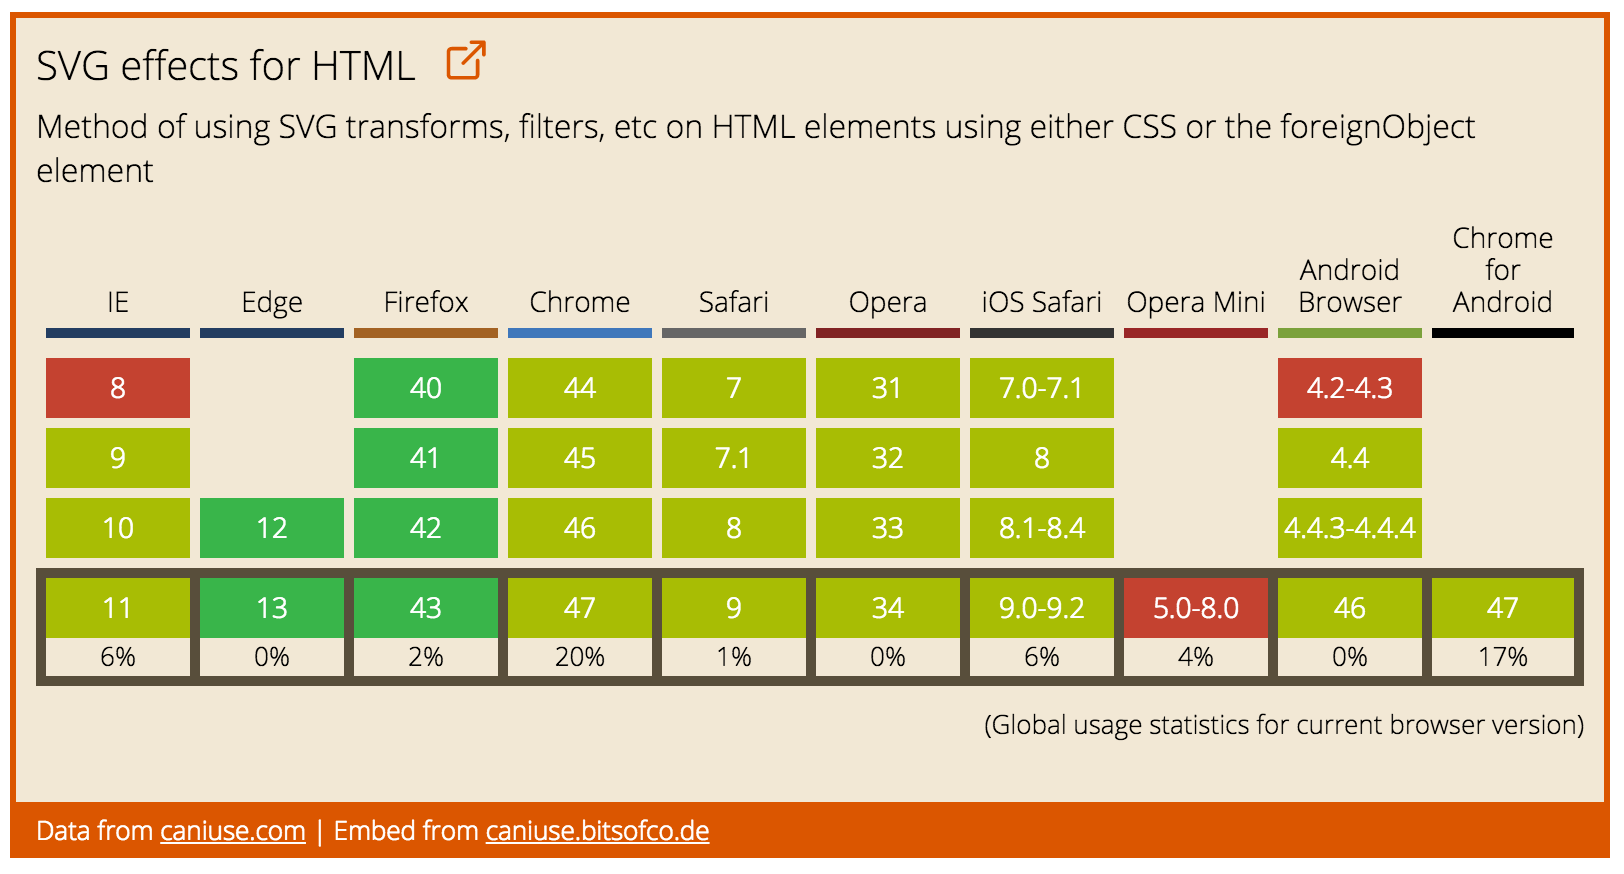
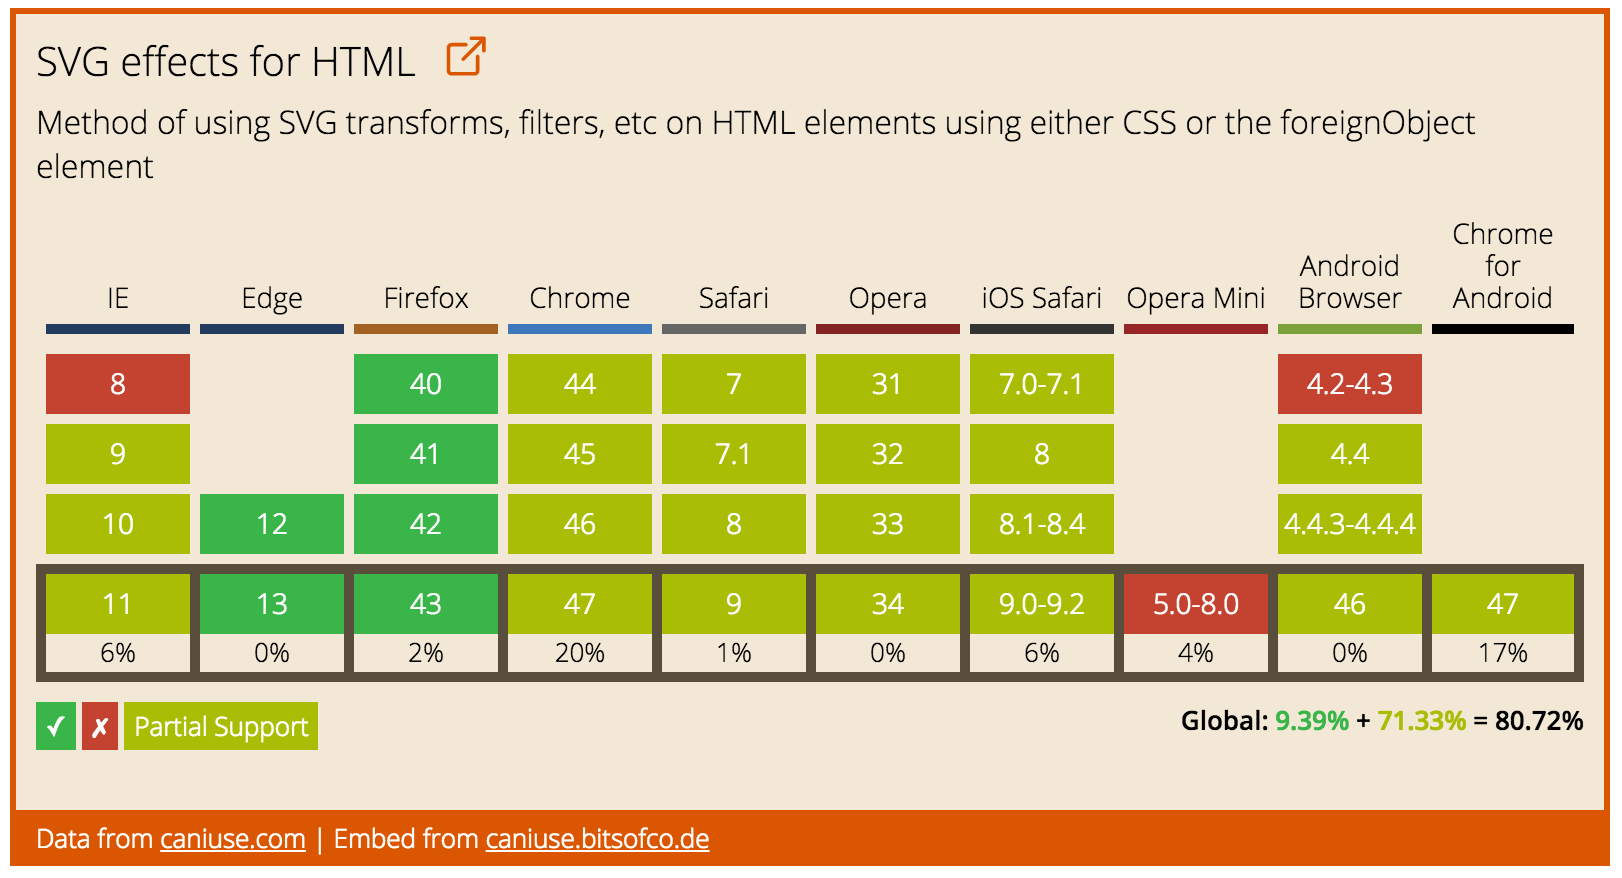
updates to embed and main site

Changed region(s): [[0.0, 0.0, 1.0, 0.9886], [0.0, 0.1236, 0.9248, 0.2162]]

diff --git a/embed/index.html b/embed/index.html
@@ -2,6 +2,8 @@
 <body>
 	<link href="https://fonts.googleapis.com/css?family=Open+Sans:400,300,600,700' rel='stylesheet" rel="stylesheet" inline>
 	<link rel="stylesheet" href="style.css" inline>
+	
+
 
 
 	<article class="feature">
@@ -10,14 +12,12 @@
 			<h1 class="feature-title">
 				<a href="" class="feature-link" target="_blank">
 				<span></span>
-				<svg width="20px" viewBox="0 0 68 69" >
+				<svg width="15px" viewBox="0 0 68 69">
 				<title>External Link</title>
-				    <g  stroke="none" stroke-width="1" fill="none" fill-rule="evenodd">
-				        <g sketch:type="MSLayerGroup" fill="#DB5600">
-				            <path d="M64.855,0.781 L43.34,0.781 C41.613,0.781 40.219,2.18 40.219,3.902 C40.219,5.629 41.617,7.023 43.34,7.023 L57.66,7.023 L27.016,37.676 C25.797,38.895 25.797,40.871 27.016,42.094 C27.625,42.703 28.426,43.008 29.223,43.008 C30.02,43.008 30.82,42.703 31.43,42.094 L61.734,11.789 L61.734,25.418 C61.734,27.145 63.133,28.539 64.855,28.539 C66.582,28.539 67.977,27.141 67.977,25.418 L67.977,3.902 C67.977,2.18 66.582,0.781 64.855,0.781 L64.855,0.781 Z" id="Fill-1" sketch:type="MSShapeGroup"></path>
-				            <path d="M54.055,32.23 C52.328,32.23 50.934,33.629 50.934,35.352 L50.934,59.992 C50.934,61.121 49.98,62.074 48.852,62.074 L9.035,62.074 C7.906,62.074 6.953,61.121 6.953,59.992 L6.953,20.176 C6.953,19.047 7.906,18.094 9.035,18.094 L33.762,18.094 C35.488,18.094 36.883,16.695 36.883,14.973 C36.883,13.246 35.484,11.852 33.762,11.852 L9.031,11.852 C4.438,11.852 0.703,15.586 0.703,20.18 L0.703,59.996 C0.703,64.59 4.438,68.324 9.031,68.324 L48.848,68.324 C53.441,68.324 57.176,64.59 57.176,59.996 L57.176,35.355 C57.176,33.629 55.777,32.23 54.055,32.23 L54.055,32.23 Z" id="Fill-2" sketch:type="MSShapeGroup"></path>
-				        </g>
-				    </g>
+		        <g fill="#DB5600">
+		            <path d="M64.855,0.781 L43.34,0.781 C41.613,0.781 40.219,2.18 40.219,3.902 C40.219,5.629 41.617,7.023 43.34,7.023 L57.66,7.023 L27.016,37.676 C25.797,38.895 25.797,40.871 27.016,42.094 C27.625,42.703 28.426,43.008 29.223,43.008 C30.02,43.008 30.82,42.703 31.43,42.094 L61.734,11.789 L61.734,25.418 C61.734,27.145 63.133,28.539 64.855,28.539 C66.582,28.539 67.977,27.141 67.977,25.418 L67.977,3.902 C67.977,2.18 66.582,0.781 64.855,0.781 L64.855,0.781 Z"></path>
+		            <path d="M54.055,32.23 C52.328,32.23 50.934,33.629 50.934,35.352 L50.934,59.992 C50.934,61.121 49.98,62.074 48.852,62.074 L9.035,62.074 C7.906,62.074 6.953,61.121 6.953,59.992 L6.953,20.176 C6.953,19.047 7.906,18.094 9.035,18.094 L33.762,18.094 C35.488,18.094 36.883,16.695 36.883,14.973 C36.883,13.246 35.484,11.852 33.762,11.852 L9.031,11.852 C4.438,11.852 0.703,15.586 0.703,20.18 L0.703,59.996 C0.703,64.59 4.438,68.324 9.031,68.324 L48.848,68.324 C53.441,68.324 57.176,64.59 57.176,59.996 L57.176,35.355 C57.176,33.629 55.777,32.23 54.055,32.23 L54.055,32.23 Z"></path>
+		        </g>
 				</svg>
 			</a>
 			</h1>
@@ -122,7 +122,7 @@
 				
 			</table>
 
-			<small class="note">(Global usage statistics for current browser version)</small>
+			<small class="note"></small>
 
 			<div class="legend">
 				<div class="y" aria-label="Supported">&#x2713;</div>
@@ -134,7 +134,7 @@
 		</main>
 
 		<footer class="feature-footer">
-			Data from <a href="http://caniuse.com">caniuse.com</a> | Embed from <a href="http://caniuse.bitsofco.de">caniuse.bitsofco.de</a>
+			Data from <a href="http://caniuse.com" target="_blank">caniuse.com</a> | Embed from <a href="http://caniuse.bitsofco.de" target="_blank">caniuse.bitsofco.de</a>
 		</footer>
 		
 	</article>

diff --git a/export.js b/export.js
@@ -1,15 +1,41 @@
 $(document).ready(function() {
 
+	// SORTING FUNCTION FROM http://stackoverflow.com/a/979325
+	var sort_by = function(field, primer){
+	   var key = primer ? 
+	       function(x) {return primer(x[field])} : 
+	       function(x) {return x[field]};
+	   return function (a, b) {
+	       return a = key(a), b = key(b), 1 * ((a > b) - (b > a));
+	     } 
+	}
 
-	var caniuseDataUrl = 'https://raw.githubusercontent.com/Fyrd/caniuse/master/data.json';
+	// GET FEATURE DATA JSON
+	$.getJSON('https://raw.githubusercontent.com/Fyrd/caniuse/master/data.json', function(res) {
 
+		//console.log(res);
 
-	$.getJSON(caniuseDataUrl, function(res) {
+		var featuresArray = [];
+
 		for (var feature in res.data) {
-			var featureTitle = res.data[feature].title;
-			var option = '<option value="'+feature+'">'+featureTitle+'</option>';
-			$('select[name="featureID"]').append(option);
+			var feature = {
+				id: feature,
+				title: res.data[feature].title
+			}
+			featuresArray.push(feature);
 		}
+
+		featuresArray.sort(sort_by('title', function(a){return a}));
+
+		for (var i = 0; i < featuresArray.length; i++) {
+
+			var feature = featuresArray[i];
+
+			var option = '<option value="'+feature.id+'">'+feature.title+'</option>';
+			$('select[name="featureID"]').append(option);
+
+		}
+
 	});
 
 
@@ -20,17 +46,17 @@ $(document).ready(function() {
 
 		var exportCode = '<p>Paste this snippet where you want the embed to be displayed:</p><pre>&lt;p class="ciu_embed" data-feature="'+featureID+'">\n&nbsp;&nbsp;&lt;a href="http://caniuse.com/#feat='+featureID+'">Can I Use '+featureID+'&lt;/a&gt;\n&lt;/p&gt;</pre>';
 
-		var preview = '<p>Preview of embed:</p><p class="ciu_embed" data-feature="'+featureID+'">\n&nbsp;&nbsp;<a href="http://caniuse.com/#feat='+featureID+'">Can I Use '+featureID+'</a>\n</p>';
+		var preview = '<p>Preview of embed:</p><p class="ciu_embed" data-feature="'+featureID+'">\n&nbsp;&nbsp;<a href="http://caniuse.com/#feat='+featureID+'">Can I Use '+featureID+'?</a>\n</p>';
 
 
 		$('.step_3').show();
 		$('.export').html(exportCode + preview);
 
-		// LOAD CLIENT SCRIPT AGAIN FOR PREVIEW
-		var head= document.getElementsByTagName('head')[0];
-		var script= document.createElement('script');
-		script.type= 'text/javascript';
-		script.src= 'caniuse-embed.js';
+		// LOAD CANIUSE-EMBED.JS SCRIPT AGAIN FOR PREVIEW
+		var head = document.getElementsByTagName('head')[0];
+		var script = document.createElement('script');
+		script.type = 'text/javascript';
+		script.src = 'caniuse-embed.js';
 		head.appendChild(script);
 
 

diff --git a/caniuse-embed.js b/caniuse-embed.js
@@ -1,26 +1,37 @@
 var caniuse_embeds = document.getElementsByClassName("ciu_embed");
 
-
 function calcIframeHeight(embed) {
-
-	var iframeHeight = '390px';
 	var parentWidth = embed.parentNode.offsetWidth; 
-	
-	if (parentWidth < 1000) {
-		iframeHeight = '400px';
-	}
-	if (parentWidth < 900) {
-		iframeHeight = '440px';
-	}
-	if (parentWidth < 750) {
-		iframeHeight = '550px';
-	}
+	var iframeHeight = '390px';
+
 	if (parentWidth < 600) {
 		iframeHeight = '630px';
 	}
+	else if (parentWidth < 750) {
+		iframeHeight = '550px';
+	}
+	else if (parentWidth < 900) {
+		iframeHeight = '440px';
+	}
+	else if (parentWidth < 1000) {
+		iframeHeight = '400px';
+	}
+
 	return iframeHeight;
 }
 
+for (var i = 0; i < caniuse_embeds.length; i++) {
+	var embed = caniuse_embeds[i];
+	var feature = embed.dataset.feature;
+	var iframeHeight = calcIframeHeight(embed);
+
+	if (!feature) {
+		embed.innerHTML = "A feature was not included. Add a caniuse feature ID to the 'data-feature' attribute of the element with class 'ciu_embed'.";
+	} else {
+		var iframe = '<iframe src="https://caniuse.bitsofco.de/embed/index.html?feat='+feature+'" frameborder="0" width="100%" height="'+iframeHeight+'"></iframe>';
+		embed.innerHTML = iframe;
+	}
+}
 
 window.onresize = function(event) {
 	for (var i = 0; i < caniuse_embeds.length; i++) {
@@ -29,18 +40,3 @@ window.onresize = function(event) {
 		embed.childNodes[0].height = iframeHeight;
 	}
 };
-
-
-for (var i = 0; i < caniuse_embeds.length; i++) {
-	var embed = caniuse_embeds[i];
-	var feature = embed.dataset.feature;
-	iframeHeight = calcIframeHeight(embed);
-
-	if (!feature) {
-		embed.innerHTML = "A feature was not included. Add a feature ID to the 'data-feature' attribute of the element with class 'ciu_embed'.";
-	} else {
-		var iframe = '<iframe src="src/iframe.html?feat='+feature+'" frameborder="1" width="100%" height="'+iframeHeight+'"></iframe>';
-		embed.innerHTML = iframe;
-	}
-	
-}

diff --git a/index.html b/index.html
@@ -2,10 +2,10 @@
 <html lang="en">
 <head>
 	<meta charset="utf-8">
-	<title>(Unofficial) CanIUse Embed</title>
+	<title>The (Unofficial) CanIUse Embed</title>
 	
 	<meta name="viewport" content="width=device-width, initial-scale=1">
-	<meta name="description" content="Embed real-time data from caniuse.com. Displays feature support data for the latest three versions of the 10 major browsers. ">
+	<meta name="description" content="Embed up-to-date data from caniuse.com. Displays feature support data for the latest four versions of the 10 major browsers. ">
 	<meta name="keywords" content="caniuse">
 	
 	<link href='https://fonts.googleapis.com/css?family=Source+Sans+Pro:400,600|Source+Code+Pro' rel='stylesheet' type='text/css'>
@@ -18,9 +18,9 @@
 
 		<section>
 		
-		<h1>(Unofficial) CanIUse Embed</h1>
+		<h1>The (Unofficial) CanIUse Embed</h1>
 
-		<p class="about">Embed real-time data from <a href="http://caniuse.com" target="_blank">caniuse.com</a>. Displays feature support data for the latest three versions of the 10 major browsers.</p>
+		<p class="about">Embed up-to-date data from <a href="http://caniuse.com" target="_blank">caniuse.com</a>. Displays feature support data for the latest four versions of the 10 major browsers.</p>
 
 
 
@@ -83,7 +83,7 @@
 
 			<section class="step_3" style="display: none;">
 
-			<h3>Step 3 - Get Export Code</h3>
+			<h3>Step 3 - Get the Embed Code</h3>
 
 			<div class="export"></div>
 				

diff --git a/embed/style.css b/embed/style.css
@@ -56,6 +56,8 @@ strong {
 	position: relative;
 	border: 3px solid #DB5600;
 	border-bottom: 0;
+
+	display: none;
 }
 .feature-header {
 	padding: 10px 10px 0;
@@ -69,6 +71,12 @@ strong {
 	background-color: #DB5600;
 	color: #fff;
 	font-size: 1.1rem;
+}
+
+@media screen and (max-width: 500px) {
+	.feature-main {
+		padding: 10px 5px;
+	}
 }
 
 
@@ -170,7 +178,7 @@ th.android .browser-title {
 		-moz-transform: rotate(-90deg);
 		-ms-transform: rotate(-90deg);
 		-o-transform: rotate(-90deg);
-		filter: progid:DXImageTransform.Microsoft.BasicImage(rotation=3);
+		transform: rotate(-90deg);
 		white-space: nowrap;
 
 		left: 0;
@@ -226,6 +234,7 @@ tr.statistics td.y span:not(.usage),
 	color: #fff;
 }
 tr.statistics td.n span:not(.usage),
+tr.statistics td.p span:not(.usage),
 .legend .n {
 	background-color: #c44230;
 	color: #fff;
@@ -247,7 +256,6 @@ tr.statistics td span {
 
 
 
-
 .legend div {
 	display: inline-block;
 	width: auto;
@@ -256,6 +264,15 @@ tr.statistics td span {
 
 .note {
 	float: right;
+	font-weight: 600;
+}
+
+span.a {
+	color: #A8BD04;
+}
+
+span.y {
+	color: #39b54a;
 }
 
 @media screen and (max-width:500px) {
@@ -265,18 +282,3 @@ tr.statistics td span {
 		margin-bottom: 5px;
 	}
 }
-
-
-
-
-
-
-
-
-
-
-
-
-
-
-

diff --git a/embed/script.js b/embed/script.js
@@ -22,11 +22,21 @@ $(document).ready(function() {
 
 		} else {
 
+			var global_y = feature.usage_perc_y;
+			var global_a = feature.usage_perc_a;
+			var global_total = global_y + global_a;
+
+			var description = feature.description;
+
+			if ( description.length > 190 ) {
+				description = description.slice(0, 180) + '....';
+			}
 
 			// DISPLAY GENERAL FEATURE INFORMATION
 			$('.feature-title span').html(feature.title);
-			$('.feature-description').html(feature.description);
-			$('.feature-link').attr('href', 'http://caniuse.com/#feat=' + featureID)
+			$('.feature-description').html(description);
+			$('.feature-link').attr('href', 'http://caniuse.com/#feat=' + featureID);
+			$('.note').html('Global: <span class="y">'+global_y+'%</span> + <span class="a">'+global_a+'%</span> = '+global_total+'%')
 
 
 			// GET BROWSER VERSIONS
@@ -100,5 +110,8 @@ $(document).ready(function() {
 
 
 		} // end else if feature
+
+		$('.feature').show();
+
 	}) // end get json
 })

diff --git a/index.css b/index.css
@@ -1,9 +1,3 @@
-/* CSS Reset Based on -
- *    Eric Meyer's Reset CSS v2.0 (http://cssreset.com)
- *    Paul Irish's Box Sizing Reset (http://www.paulirish.com/2012/box-sizing-border-box-ftw/)
- *    CSS Mojo's clearfix (http://cssmojo.com/latest_new_clearfix_so_far/)
- */
- 
 html, body, div, span, applet, object, iframe,
 h1, h2, h3, h4, h5, h6, p, blockquote, pre,
 a, abbr, acronym, address, big, cite, code,

diff --git a/README.md b/README.md
@@ -1,6 +1,6 @@
 # (Unofficial) CanIUse Embed
 
-**Embed real-time data from caniuse.com**. Displays feature support data for the latest three versions of the 10 major browsers.
+**Embed up-to-date data from caniuse.com**. Displays feature support data for the latest four versions of the 10 major browsers.
 
 ![caniuse SVG Table](example.png)
 
@@ -18,4 +18,4 @@ Follow instructions [here](http://caniuse.bitsofco.de/#how-to-use) to generate a
 
 All data is from [caniuse](https://github.com/fyrd/caniuse), which is licenced under the [CC BY 4.0](http://creativecommons.org/licenses/by/4.0/) license.
 
-Similarly, this embed is icenced under the [CC BY 4.0](http://creativecommons.org/licenses/by/4.0/) license.
+This embed is also licenced under the [CC BY 4.0](http://creativecommons.org/licenses/by/4.0/) license.
